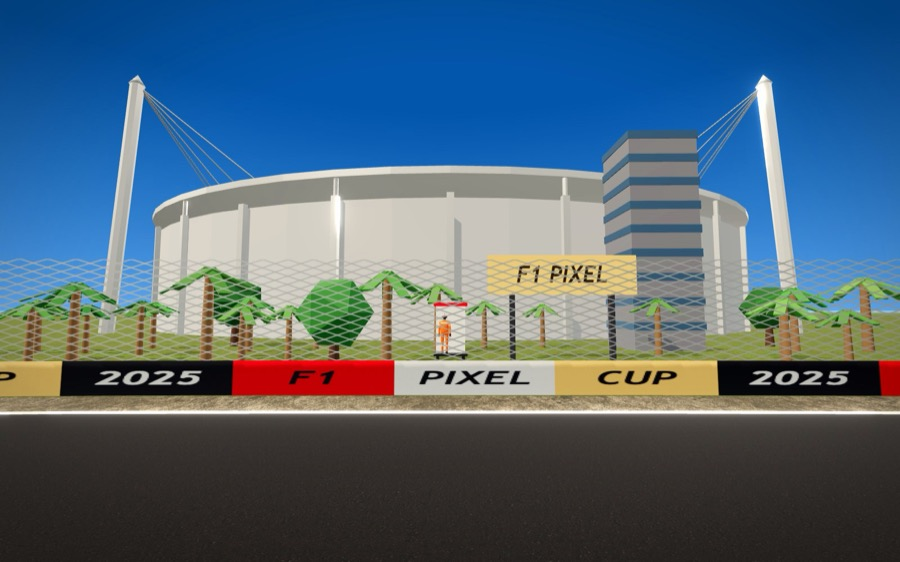
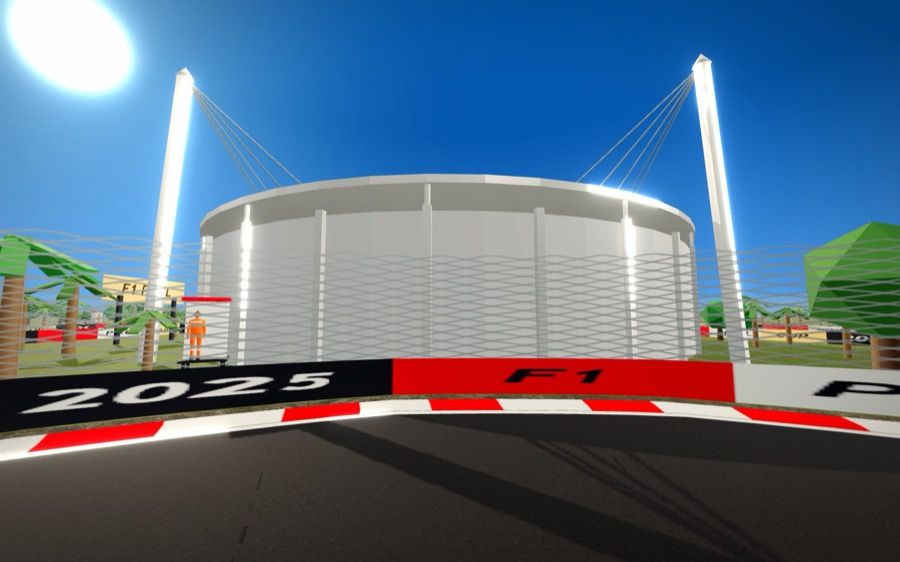
Miami's stadium from the track: review and site shots

diff --git a/tools/capture-shots.js b/tools/capture-shots.js
@@ -223,7 +223,7 @@ async (page) => {
     { part: "trackside2025", name: "trackside-biosphere", circuit: "montreal", aim: "biosphere", back: 30, h: 15, ah: 70, fov: 55, side: 0 },
     { part: "trackside2025", name: "trackside-austin", circuit: "cota", aim: "cotaTower", back: 30, h: 15, ah: 90, fov: 60, side: 0 },
     { part: "trackside2025", name: "trackside-forosol", circuit: "mexico", aim: "foroSol", back: 25, h: 30, ah: 40, fov: 70, side: 0 },
-    { part: "trackside2025", name: "trackside-miami", circuit: "miami", aim: "miamiStadium", back: 30, h: 20, ah: 60, fov: 65, side: 0 },
+    { part: "trackside2025", name: "trackside-miami", circuit: "miami", aim: "miamiStadium", back: 20, h: 18, ah: 45, fov: 70, side: 0 },
   ];
   for (const t of TRACKSIDE.filter((x) => parts.includes(x.part || "trackside"))) {
     const c = circuits.find((x) => x.id === t.circuit);

diff --git a/index.html b/index.html
@@ -160,8 +160,8 @@
           <figcaption><b>Mexico City</b> The stadium section: a horseshoe of stands packed with fans.</figcaption>
         </figure>
         <figure class="trackside-card">
-          <img src="./assets/shots/trackside-miami.jpg" alt="Miami's stadium under its canopy, held up by four corner masts, behind the palms" loading="lazy">
-          <figcaption><b>Miami</b> The stadium, its canopy held up by four corner masts.</figcaption>
+          <img src="./assets/shots/trackside-miami.jpg" alt="Miami's stadium inside the circuit, its canopy held up by four corner masts" loading="lazy">
+          <figcaption><b>Miami</b> The stadium the circuit runs round, its canopy held up by four corner masts.</figcaption>
         </figure>
       </div>
     </section>
